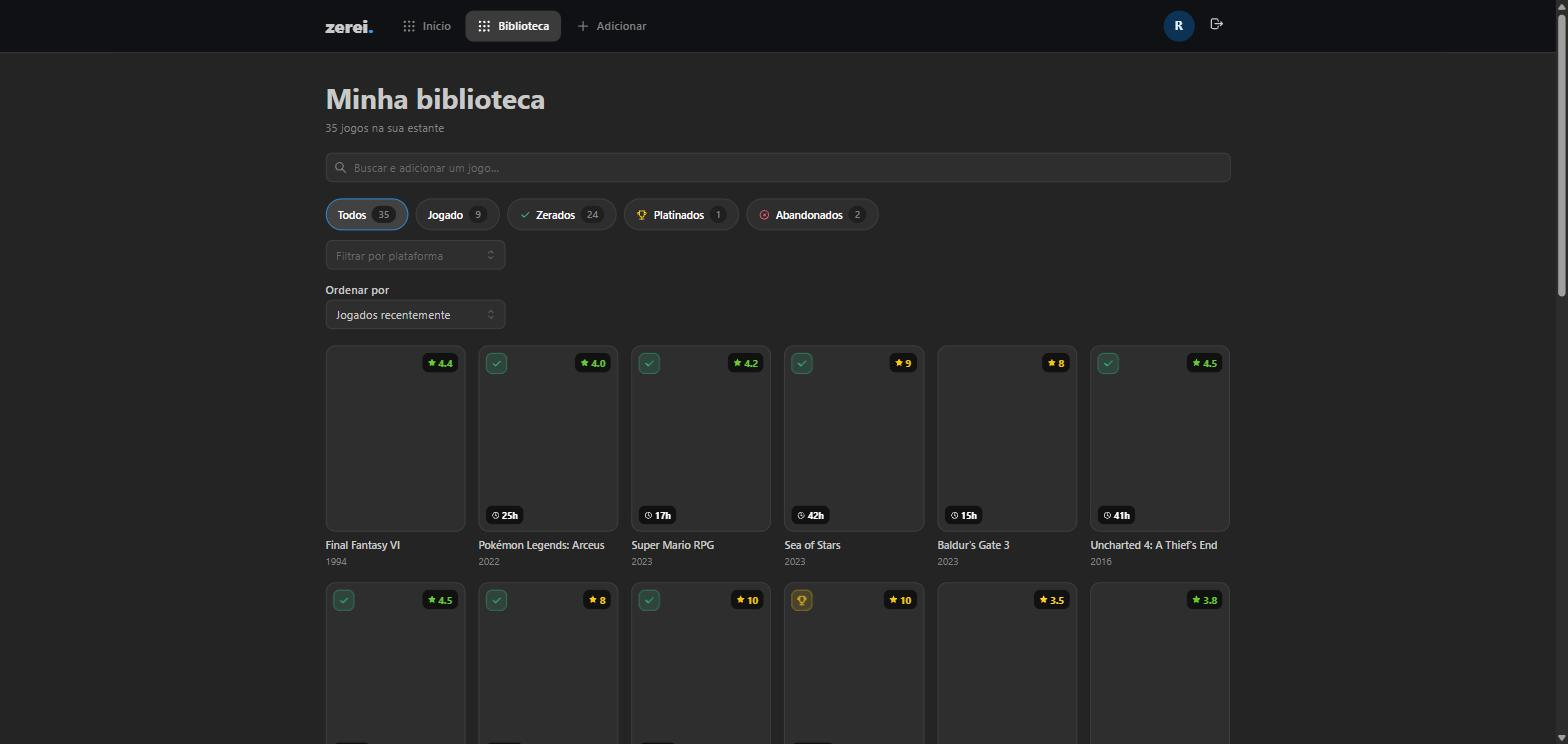
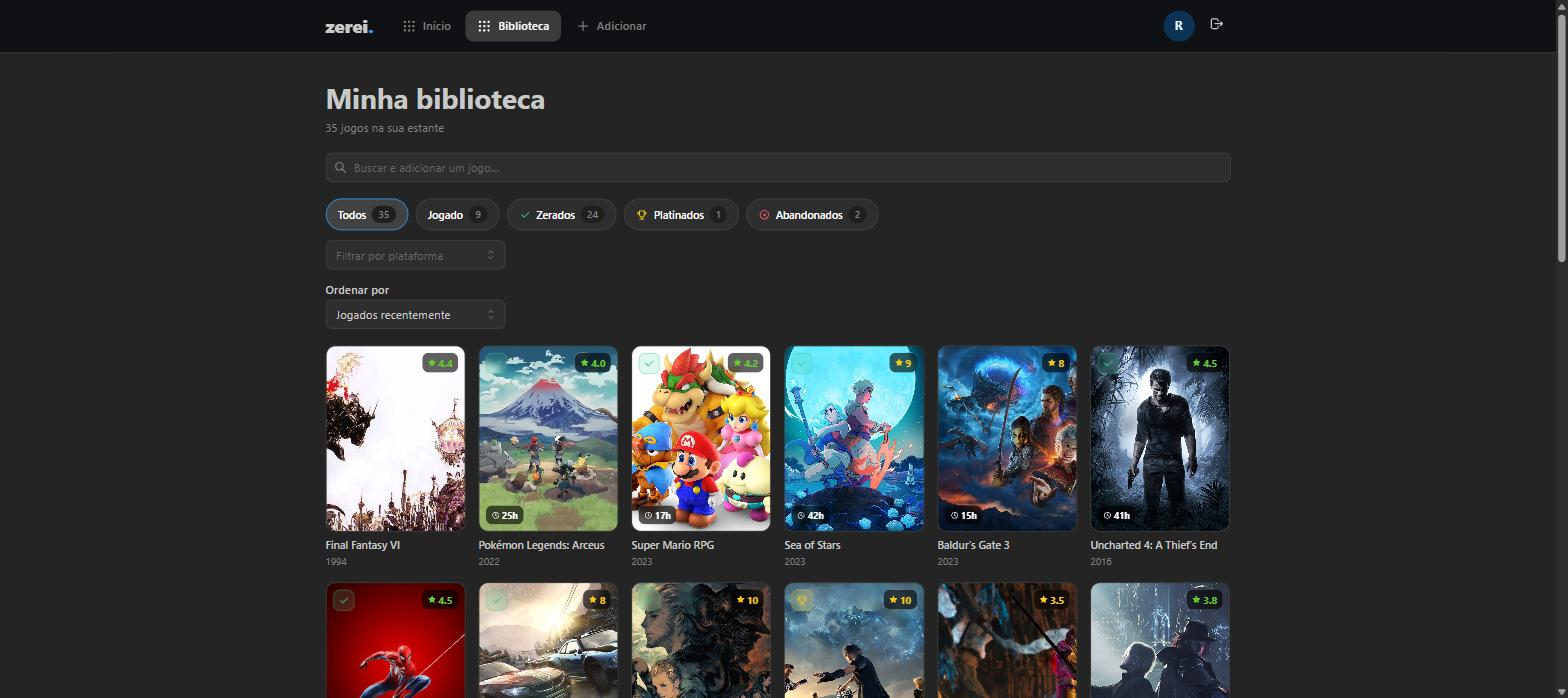
docs: README em português como opção de idioma; limpa lixo do repo
Adiciona README.pt-BR.md (tradução completa) com um menu de idioma no topo
de cada README, linkando pro outro.

Refaz os prints de biblioteca e detalhe do jogo: o primeiro tinha sido
capturado antes das capas carregarem (apareciam em branco), o segundo
usava um jogo com poucos dados preenchidos — trocado por Persona 5 Royal,
que já tem plataforma, horas, nota e resenha.

Limpeza de lixo no repo: remove backend/backend.http (scaffold padrão do
`dotnet new webapi`, testava um endpoint /weatherforecast que nem existe
mais no projeto) e frontend-react/public/icons.svg (não referenciado em
lugar nenhum).

Claude-Session: https://claude.ai/code/session_01QZnyMWgfkANgZ1tsBCCGBX

diff --git a/README.pt-BR.md b/README.pt-BR.md
@@ -1,0 +1,102 @@
+# zerei 🎮
+
+[English](README.md) | **Português**
+
+> *"Zerei"* é gíria em português pra **terminar um jogo** — de *zerar*, como em zerar tudo até o fim. Isso aqui é uma estante pra registrar todo jogo que você já zerou (e todo que ainda não).
+
+Sua estante de jogos. Registre tudo que já jogou — qualquer plataforma, rejogadas incluídas — e veja sua trajetória em estatísticas.
+
+Um "Letterboxd/Goodreads pra jogos", focado em **registrar seu próprio histórico** (não é só backlog, nem só review): cada jogo pode ter várias **jogatinas** (plataforma, mês/ano, horas, status), e seu perfil junta tudo isso em estatísticas — horas jogadas, zerados, platinados, plataforma e gênero favoritos, ranking de mais jogados, e um "Wrapped" pra baixar e compartilhar.
+
+Feito pra rodar **local**, na sua própria máquina — sem precisar publicar nada na internet.
+
+## Prints
+
+| Início | Biblioteca | Detalhe do jogo |
+|---|---|---|
+| ![Início](docs/screenshot-home.jpg) | ![Biblioteca](docs/screenshot-biblioteca.jpg) | ![Detalhe do jogo](docs/screenshot-jogo.jpg) |
+
+## Stack
+
+| Camada | Tecnologia |
+|---|---|
+| Backend | **.NET 8** (ASP.NET Core, EF Core, JWT, BCrypt) |
+| Banco de dados | **PostgreSQL** (serviço nativo — não containerizado) |
+| Frontend | **React 19** (Vite, TypeScript) + **Mantine** + **TanStack Query** |
+| Orquestração local | **.NET Aspire** (opcional — dashboard de telemetria) |
+| Catálogo | **RAWG API** (opcional — capas, Metacritic, nota da comunidade, DLCs, jogos parecidos) |
+
+## Como rodar
+
+**Pré-requisitos:** [.NET 8 SDK](https://dotnet.microsoft.com/download), [Node 18+](https://nodejs.org), PostgreSQL em `localhost:5432` (usuário `postgres` / senha `postgres` — ou ajuste a connection string em `backend/appsettings.json`)
+
+```bash
+git clone https://github.com/rafael-ventura/zerei.git
+cd zerei
+```
+
+**1. Backend** (`backend/`):
+```bash
+cd backend
+dotnet ef database update   # cria o banco "zerei" e aplica as migrations
+dotnet run --urls http://localhost:5192
+```
+Na subida, o backend roda o **seed** (gêneros/plataformas + ~50 jogos conhecidos, idempotente — pode rodar de novo sem duplicar). Também cria uma conta demo: **`demo` / `demo1234`**, já com alguns jogos registrados, pra ter algo pra ver de cara.
+
+**2. Frontend** (`frontend-react/`, em outro terminal):
+```bash
+cd frontend-react
+npm install
+npm run dev
+```
+Acesse **http://localhost:5173**, entre com a conta demo (ou crie uma conta nova) e comece a registrar seus jogos.
+
+**Testes:** `dotnet test` na raiz do repo.
+
+### RAWG (opcional, mas recomendado)
+
+Sem a chave, o app funciona só com o catálogo semeado localmente (capas aparecem como placeholders coloridos). Com ela, a busca importa qualquer jogo automaticamente — capa, Metacritic, nota da comunidade, DLCs e até uma seção de "jogos parecidos".
+
+1. Crie uma conta grátis em **[rawg.io/apidocs](https://rawg.io/apidocs)** e pegue sua chave (só identifica quem está usando a API deles, sem custo).
+2. Configure ela **localmente**, nunca direto no `appsettings.json`:
+   ```bash
+   cd backend
+   dotnet user-secrets init
+   dotnet user-secrets set "Rawg:ApiKey" "sua-chave-aqui"
+   ```
+3. Reinicie o backend.
+
+## Estrutura do projeto
+
+```
+backend/
+  Api/             controllers, autenticação
+  Application/     services, DTOs, regras de negócio
+  Domain/          entidades, enums
+  Infrastructure/  DbContext, seed, cliente RAWG, migrations
+backend.Tests/     testes (xUnit)
+frontend-react/
+  src/
+    api/           hooks do TanStack Query (auth, biblioteca, catalogo, perfil)
+    components/    Layout, JogoCard, StatusIcon
+    pages/         login, onboarding, home, biblioteca, detalhe do jogo,
+                    perfil público (/u/:username), wrapped
+```
+
+## Ideias futuras
+
+Rastreadas como [issues](../../issues) em vez de uma lista aqui, pra manter a discussão num lugar só:
+
+- [Listas de jogos por usuário](../../issues/1) — públicas/privadas, compartilháveis por imagem/CSV
+- [Internacionalizar a UI](../../issues/6) (inglês)
+- [Linha do tempo mensal](../../issues/3)
+- [Conquistas reais por plataforma](../../issues/4) (Steam primeiro)
+- [PWA / instalável no celular](../../issues/5)
+
+Tem uma ideia ou achou um bug? Abra uma nova [issue](../../issues).
+
+## Contribuindo
+
+Veja [CONTRIBUTING.md](CONTRIBUTING.md) (em inglês) pro padrão de commits, checagens antes de enviar, e cuidados com segredos.
+
+Este projeto nasceu de uma vontade bem simples: ter algo que desse gosto de preencher, do jeito que eu queria usar. Está aberto pra colaboração — sinta-se à vontade pra abrir uma issue, sugerir algo ou mandar um PR.

diff --git a/README.md b/README.md
@@ -1,5 +1,7 @@
 # zerei 🎮
 
+**English** | [Português](README.pt-BR.md)
+
 > *"Zerei"* is Brazilian Portuguese slang for **beating a game** — from *zerar* ("to zero out"), as in clearing every last bit of it. This is a shelf for tracking every game you've zerado (and every one you haven't, yet).
 
 Your game shelf. Log everything you've played — any platform, replays included — and see your history as stats.
